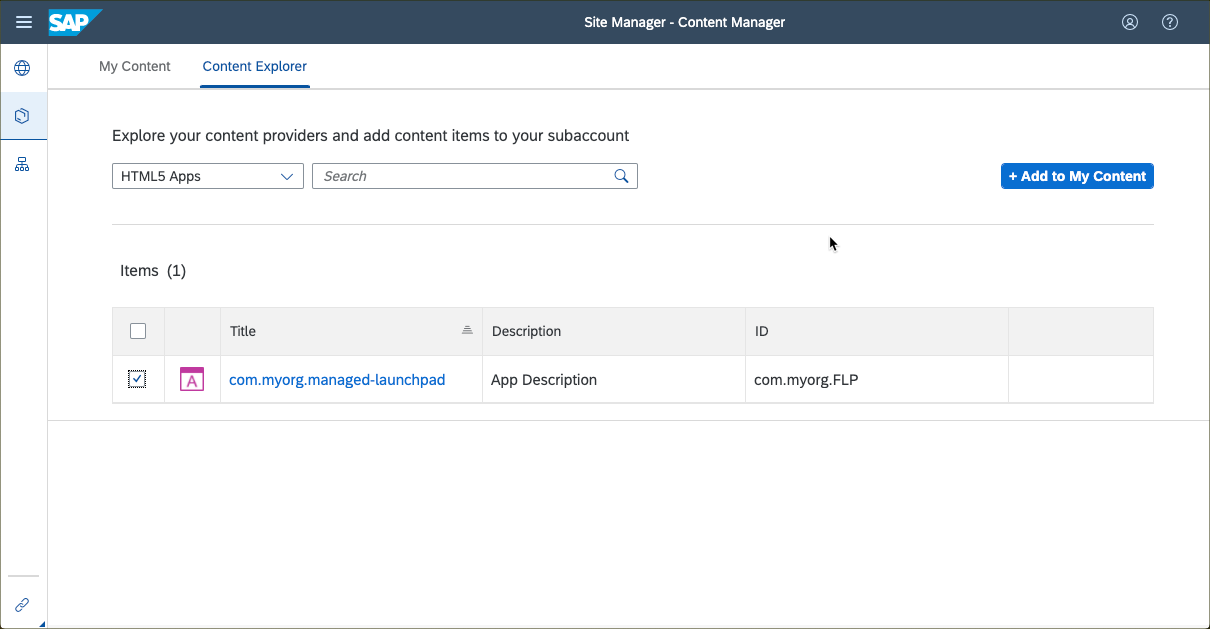
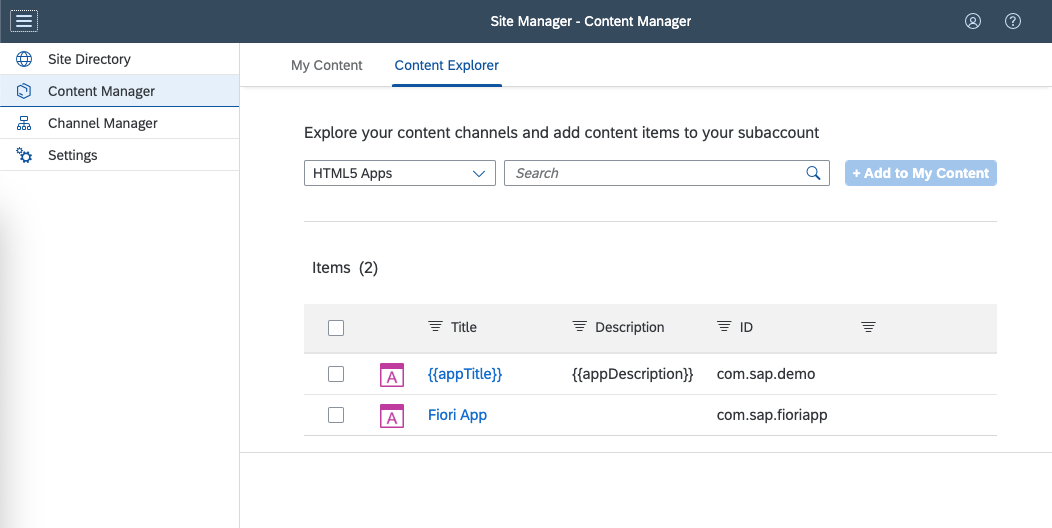
update readme

diff --git a/managed-html5-runtime-fiori-launchpad-mta/readme.md b/managed-html5-runtime-fiori-launchpad-mta/readme.md
@@ -7,35 +7,14 @@
 
 ## Description
 
-This is an example of an SAP Fiori app that is accessed by a managed application router. The SAP Fiori app is exposed to the SAP Launchpad service and is visible in the content manager of the launchpad. The app is deployed to the HTML5 Application Repository via the Cloud Foundry environment  and uses the Authentication & Authorization service (XSUAA service) and the destination service. 
+This is an example of two SAP Fiori apps ([HTML5Module1](./HTML5Module1/) and [HTML5Module2](./HTML5Module2/)) that are configured to run with the managed application router. The apps are exposed to SAP Build Work Zone, standard edition and are visible in the content manager of the launchpad. The apps are deployed to the HTML5 Application Repository via the Cloud Foundry environment and use the Authentication & Authorization service (XSUAA service) and the destination service. 
 
-The web app that is contained in the `uimodule.zip` defines the following properties in the `manifest.json` file. Otherwise, the correspoding values in the `mta.yaml` descriptor need to be updated as well.
+1. The [HTML5Module1](./HTML5Module1/) consumes the public [Northwind OData service](https://services.odata.org/v2/Northwind/Northwind.svc), to use instead a CAP service with required authentication look at [optional-self-hosted-backend](../optional-self-hosted-backend/)
 
-```JSON
-{
-  "sap.cloud": {
-    "public": true,
-    "service": "cloud.service"
-  },
-  "sap.app": {
-    "id": "com.myorg.FLP",
-    "applicationVersion": {
-      "version": "1.0.0"
-    }
-  },
-  "sap.ui5": {
-    "dependencies": {
-        "minUI5Version": "1.65.0"
-    }
-  }
-}
-```
-
-
->  The SAP Fiori app consume the Northwind odata.org public service, to use instead a CAP service with required authentication look at [optional-self-hosted-backend](../optional-self-hosted-backend/)
+2. The [HTML5Module2](./HTML5Module2/) is a freestyle OpenUI5 application that uses an npm package for a custom control as described in [this blog post](https://blogs.sap.com/2021/11/15/using-npm-packages-in-ui5-without-shims/).
 
 ## Download and Deployment
-1. Subscribe to the [launchpad service](https://developers.sap.com/tutorials/cp-portal-cloud-foundry-getting-started.html) if you haven't done so before.
+1. Subscribe to the [SAP Build Work Zone, standard edition](https://developers.sap.com/tutorials/cp-portal-cloud-foundry-getting-started.html) if you haven't done so before.
 2. Download the source code:
     ```
     git clone https://github.com/SAP-samples/multi-cloud-html5-apps-samples
@@ -52,9 +31,9 @@ The web app that is contained in the `uimodule.zip` defines the following proper
     ```
     or
     ```
-    cf deploy mta_archives/managed_fiori_1.0.0.mtar
+    cf deploy mta_archives/managed-fiori_1.0.0.mtar
     ```
-5. See the URL of the web app:
+5. List the deployed HTML5 apps:
     ```
     cf html5-list -di managed-fiori-destination -u --runtime launchpad
     ```
@@ -73,7 +52,8 @@ Getting list of HTML5 applications in org [cf-org-name] / space dev as firstname
 OK
 
 name             version   app-host-id                            service name    destination name                  last changed                    url   
-comsapfioriapp   1.0.0     145bd58f-4e2a-4b66-999f-2a03a4870d4e   cloud.service   managed-fiori-destination-html5   Tue, 16 Feb 2021 11:19:52 GMT   https://[cf-org-name].launchpad.cfapps.eu10.hana.ondemand.com/8579be75-0008-4835-abf4-5c8c82b46f5c.cloudservice.comsapfioriapp-1.0.0/   
+comsapfioriapp   1.0.0     b14e8922-77d3-42bf-8de0-2d9e8aa2c793   cloud.service   managed-fiori-destination-html5   Mon, 27 Mar 2023 11:20:17 GMT   https://nicolai-geburek-c8wbb6sc.launchpad.cfapps.eu10.hana.ondemand.com/97e830d3-6bc6-413a-9408-17a44bbaa3f7.cloudservice.comsapfioriapp-1.0.0/
+comsapdemo       0.0.1     b14e8922-77d3-42bf-8de0-2d9e8aa2c793   cloud.service   managed-fiori-destination-html5   Mon, 27 Mar 2023 11:20:18 GMT   https://nicolai-geburek-c8wbb6sc.launchpad.cfapps.eu10.hana.ondemand.com/97e830d3-6bc6-413a-9408-17a44bbaa3f7.cloudservice.comsapdemo-0.0.1/ 
 ```
 
 > You need to substitute `cpp` with `launchpad`, in case you use the Launchpad service (instead of the Portal service).
@@ -91,19 +71,19 @@ name   requested state   instances   memory   disk   urls
 
 Services:
 name                                service           plan          bound apps   last operation   
-managed_launchpad_destination       destination       lite                       update succeeded   
-managed_launchpad_html5_repo_host   html5-apps-repo   app-host                   update succeeded   
-managed_launchpad_uaa               xsuaa             application                update succeeded  
+managed-launchpad-destination       destination       lite                       update succeeded   
+managed-launchpad-html5-repo-host   html5-apps-repo   app-host                   update succeeded   
+managed-launchpad-uaa               xsuaa             application                update succeeded  
 ```
 
 
 ### List the Deployed Content with the Content Explorer
 
-![Content in Content Explorer](contentExplorer.png)
+![Content Explorer](contentExplorer.png)
 
 
-### Check the HTML5 App
+### Check the HTML5 Apps
 
-Access the URL described in [Download and Deployment](#download-and-deployment) to view the web app. You are redirected to a sign-on page before you can see the web app.
+Access one of the URLs described in the [Download and Deployment](#download-and-deployment) section. You are redirected to a sign-on page before you can see the app.
 
-![webapp](result.png)
+![HTML5Module1](HTML5Module1.png)
